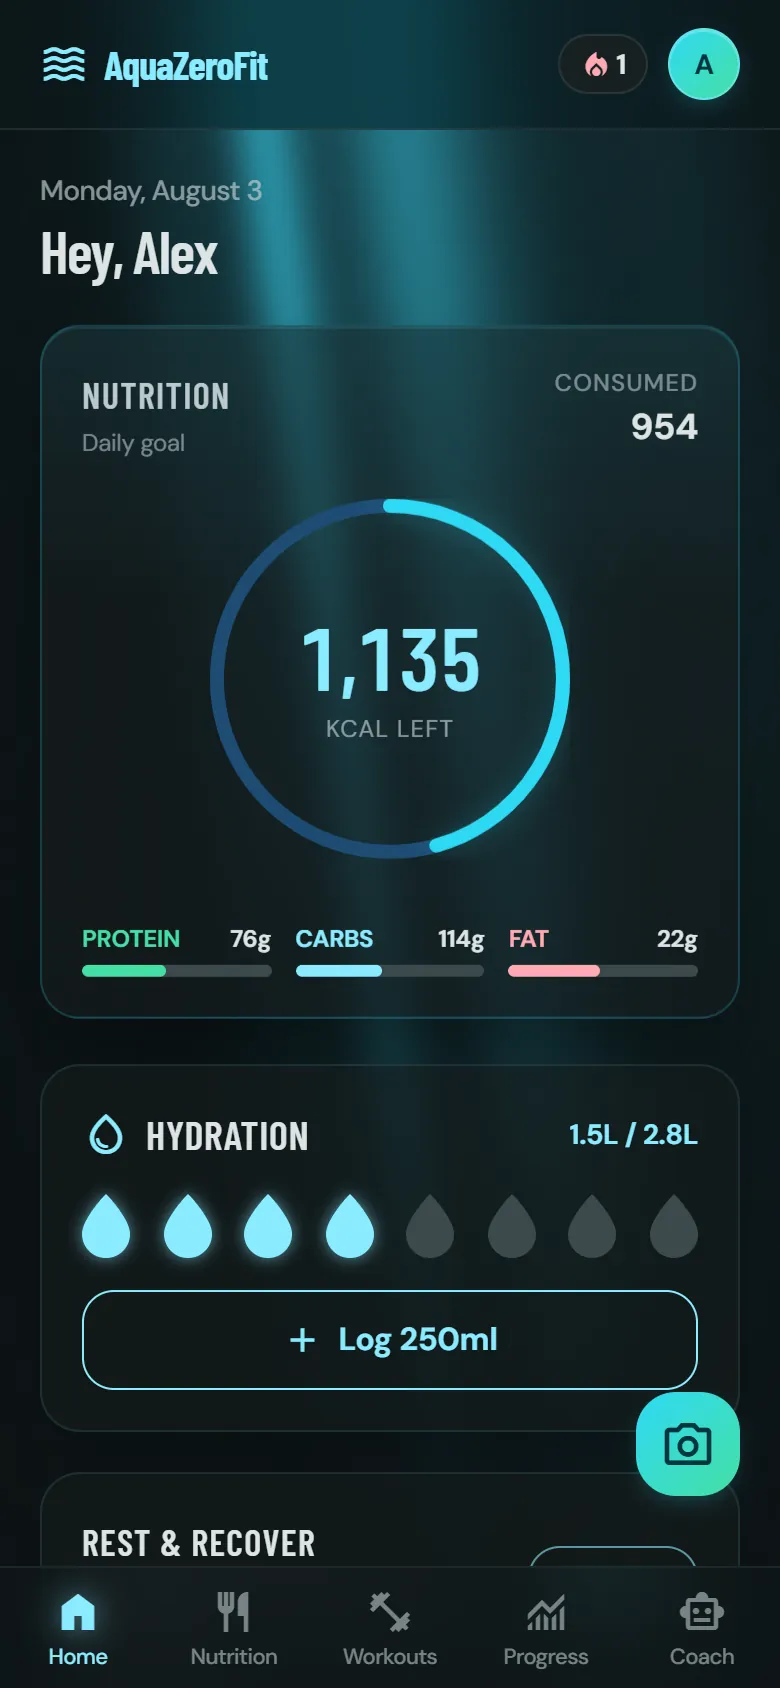
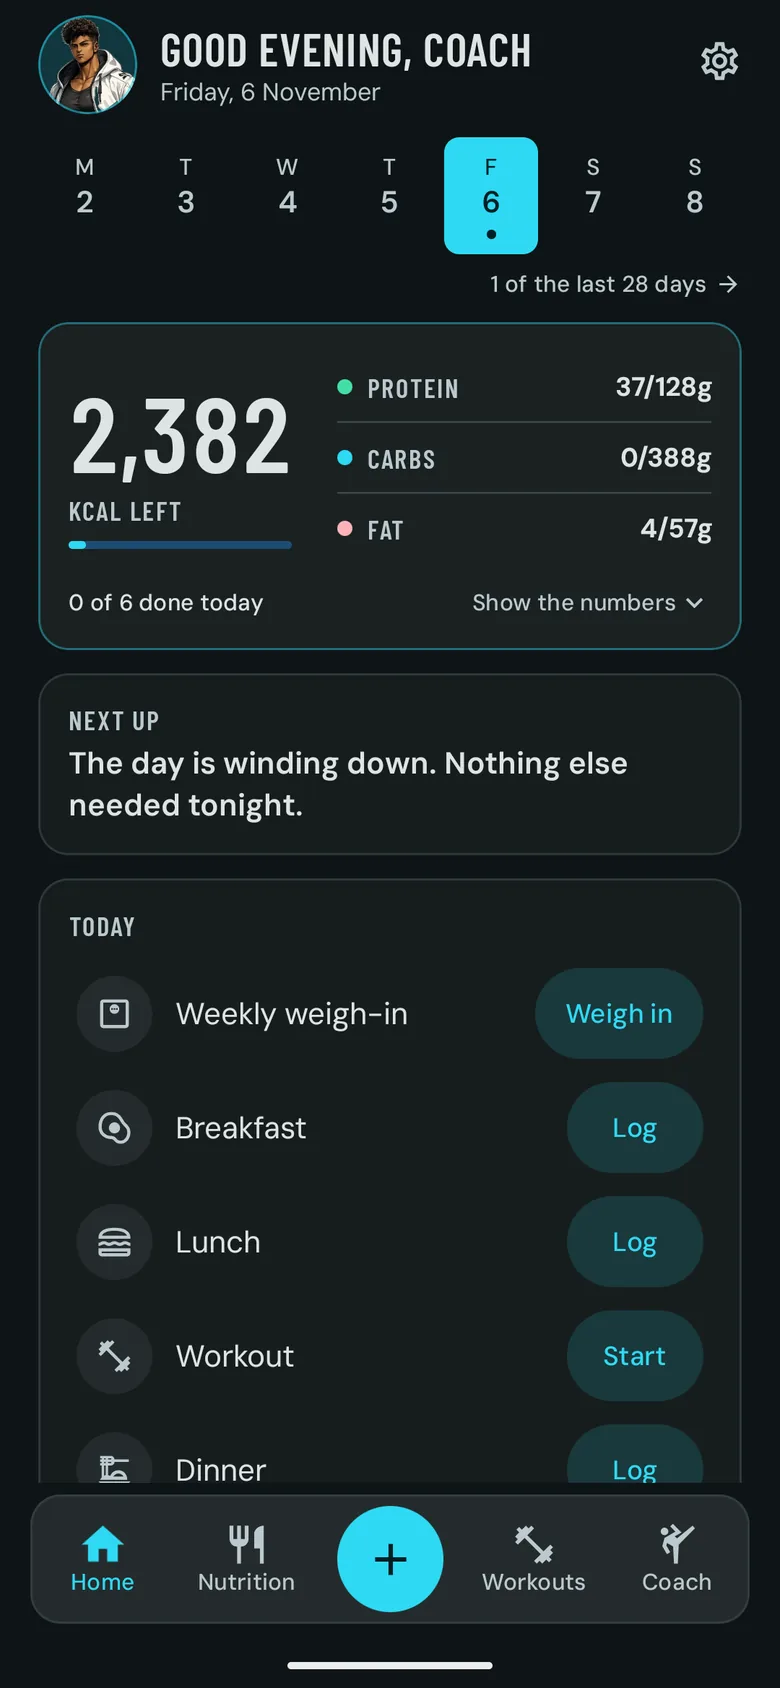
Show the redesigned Android app on the landing pages (#178)
The gallery and How it works showed August browser captures of the old
look: an aurora behind a calorie ring and gradient buttons, in a phone frame
with an aqua glow. They now show captures of the redesigned Android app (the
one on Google Play), with the status bar cropped off, alt text that describes
what is on each screen, and copy that says where they came from. The meal
plan capture is replaced by a recipe: the test account was out of AI credits,
and an empty plan is not worth showing. The device frame is a plain bezel.

Sub-page headlines wrapped wider in the fallback font while Barlow Condensed
loaded, which shifted /aqua-coach by 0.33 at 390px. A size-adjusted local
fallback face, measured from both fonts' advance widths, wraps where the
real face will; the render audit now reads 0.003.

diff --git a/apps/web/src/pages/landing/LandingSections.tsx b/apps/web/src/pages/landing/LandingSections.tsx
@@ -50,37 +50,37 @@ const SCREENS = [
     id: 'dashboard',
     title: 'Today at a glance',
     caption: 'Calories remaining, macro split and hydration, all computed from your own figures.',
-    alt: 'Dashboard: 1,135 kcal left on a progress ring, protein, carbs and fat against target, and hydration logged in 250 ml steps.',
+    alt: 'Today: 2,382 kcal left as the lead figure, protein, carbs and fat against target as ruled rows, and the day’s checklist of meals, workout and water.',
   },
   {
     id: 'nutrition',
     title: 'Per-meal logging',
     caption: 'A searchable food corpus, barcode scanning and day navigation, meal by meal.',
-    alt: 'Nutrition day view: a calorie ring, macro targets and each meal of the day listed with its entries.',
+    alt: 'Nutrition day view: 2,382 kcal remaining of a 2,580 goal, macros against target, quick actions to scan a meal or barcode, and each meal of the day.',
   },
   {
     id: 'coach',
     title: 'A coach that knows your day',
     caption: 'Grounded in what you have logged, with the wellness boundary always on screen.',
-    alt: "Aqua Coach: a reply quoting today's logged calories, protein, carbs, fat and water, above the persistent wellness disclaimer.",
+    alt: 'Coach chat with Akin: advice on easing into a recovery jog, under the persistent wellness disclaimer.',
   },
   {
-    id: 'meal-plan',
-    title: 'Plans matched to your targets',
-    caption: 'Generated against your calorie and macro targets, with allergens excluded first.',
-    alt: 'An AI meal plan laid out against the day’s calorie and macro targets.',
+    id: 'recipe',
+    title: 'Recipes you can log as cooked',
+    caption: 'Per-serving calories and macros, allergens called out, and the full method cached for offline reading.',
+    alt: 'Recipe: avocado and egg sourdough toast at 440 kcal per serving with protein, carbs and fat, an allergen note, a servings stepper and the ingredient list.',
   },
   {
     id: 'workouts',
     title: 'Training that fits your kit',
     caption: 'An openly licensed exercise corpus, filtered to the equipment you actually own.',
-    alt: 'Workout library: the training week, a rest-day card, and the exercise library filtered by type, muscle and equipment.',
+    alt: 'Workouts: today’s full-body strength session with its exercises and a start button, the training week, and the exercise library.',
   },
   {
     id: 'progress',
     title: 'Progress over 7, 30 and 90 days',
     caption: 'Weight journey and calorie trend, so a single heavy day reads as a single day.',
-    alt: 'Progress view: current weight, change since start, a weight journey chart against goal, and a calorie trend bar chart.',
+    alt: 'Progress: current weight 80.0 kg as the lead figure, change since start, and the 28-day consistency window.',
   },
 ];
 
@@ -113,8 +113,8 @@ export function Gallery() {
               Real screens from the running app.
             </h2>
             <p className={LEAD}>
-              Captured signed in as the seeded demo account. Every number on them came out of the
-              same code you would be using.
+              Captured from the Android app, signed in to a test account. Every number on them came
+              out of the same code you would be using.
             </p>
           </Reveal>
 

diff --git a/apps/web/src/pages/landing/PhoneShowcase.tsx b/apps/web/src/pages/landing/PhoneShowcase.tsx
@@ -3,8 +3,9 @@ import { fetchPriorityHigh } from '@/lib/fetchPriority';
 /**
  * Device frame for the real screen captures.
  *
- * The screen is a real capture of the running application (docs/screenshots,
- * re-encoded to WebP in public/screenshots) rather than markup imitating it.
+ * The screen is a real capture of the running application, re-encoded to WebP
+ * in public/screenshots, rather than markup imitating it. Most are Android
+ * captures with the OS status bar cropped off.
  * A hand-built replica drifts from the product the moment either changes —
  * ours already had, within an hour of being written — and a landing page whose
  * "screenshots" are drawings is exactly the tell we are trying to avoid.
@@ -27,12 +28,10 @@ export function DeviceFrame({
 }) {
   return (
     <div
-      className={`relative rounded-[42px] border border-white/10 bg-[#0b1113] p-2.5 shadow-[0_60px_120px_-40px_rgba(0,0,0,0.95),0_0_80px_-40px_rgba(47,217,244,0.5)] ${className}`}
+      // A plain bezel: the screen is the subject, so no glow or sheen competes
+      // with it (docs/design.md).
+      className={`relative rounded-[42px] border border-outline-variant/60 bg-surface-container-lowest p-2.5 ${className}`}
     >
-      <div
-        className="pointer-events-none absolute inset-0 rounded-[42px] bg-gradient-to-br from-white/12 via-transparent to-transparent"
-        aria-hidden="true"
-      />
       <div className="relative overflow-hidden rounded-[34px] bg-surface-container-lowest">
         <img
           src={`/screenshots/${id}.webp`}
@@ -48,8 +47,8 @@ export function DeviceFrame({
           decoding="async"
           className="block h-auto w-full"
         />
-        {/* No drawn notch: these are browser captures with no OS status bar, so
-            a fake one would land on top of the app's own header. */}
+        {/* No drawn notch: the captures carry no status bar, so a fake one
+            would land on top of the app's own header. */}
       </div>
     </div>
   );

diff --git a/apps/web/src/pages/landing/screenshots.test.ts b/apps/web/src/pages/landing/screenshots.test.ts
@@ -1,0 +1,41 @@
+/**
+ * The marketing pages show real captures of the app, served from
+ * public/screenshots at 1x and 2x. A renamed or deleted capture fails here
+ * instead of shipping a broken image to the landing page.
+ *
+ * The heading face also keeps its metric-matched fallback: without it the
+ * sub-page headlines wrapped wider while Barlow Condensed loaded and shifted
+ * the page when it arrived.
+ */
+import { existsSync, readFileSync } from 'node:fs';
+import { fileURLToPath } from 'node:url';
+import { describe, expect, it } from 'vitest';
+
+const here = (relative: string) => fileURLToPath(new URL(relative, import.meta.url));
+const source = (file: string) => readFileSync(here(file), 'utf8');
+
+const galleryIds = [...source('./LandingSections.tsx').matchAll(/^\s+id: '([a-z-]+)',$/gm)].map((m) => m[1]);
+const stepIds = [...source('./HowItWorks.tsx').matchAll(/screenshot: '([a-z-]+)'/g)].map((m) => m[1]);
+
+describe('landing screenshots', () => {
+  it('finds the six gallery captures and the how-it-works captures', () => {
+    expect(galleryIds).toHaveLength(6);
+    expect(stepIds.length).toBeGreaterThan(0);
+  });
+
+  it.each([...new Set([...galleryIds, ...stepIds])])('%s exists at 1x and 2x', (id) => {
+    expect(existsSync(here(`../../../public/screenshots/${id}.webp`))).toBe(true);
+    expect(existsSync(here(`../../../public/screenshots/${id}@2x.webp`))).toBe(true);
+  });
+});
+
+describe('heading font fallback', () => {
+  it('declares a size-adjusted stand-in and lists it before the generic family', () => {
+    expect(source('../../styles/index.css')).toMatch(
+      /font-family: 'Barlow Condensed Fallback';[\s\S]*?size-adjust: 74\.4%;/,
+    );
+    expect(source('../../../tailwind.config.js')).toContain(
+      `heading: ['"Barlow Condensed"', '"Barlow Condensed Fallback"', 'sans-serif']`,
+    );
+  });
+});

diff --git a/apps/web/src/styles/index.css b/apps/web/src/styles/index.css
@@ -2,6 +2,20 @@
 @tailwind components;
 @tailwind utilities;
 
+/* Metric-matched stand-in for Barlow Condensed while the web font loads.
+   The fonts load asynchronously, and a full-width fallback wrapped sub-page
+   headlines onto extra lines, then shifted the page when Barlow arrived
+   (CLS 0.33 on /aqua-coach at 390px). Headings are SemiBold, which falls back
+   to the bold face; Barlow Condensed SemiBold sets text at 0.744 of Arial
+   Bold's width (measured from both fonts' advance widths), so the stand-in
+   wraps where the real face will. */
+@font-face {
+  font-family: 'Barlow Condensed Fallback';
+  src: local('Arial Bold'), local('Arial-BoldMT'), local('Roboto Bold'), local('Roboto-Bold');
+  font-weight: 600 800;
+  size-adjust: 74.4%;
+}
+
 /* ====================================================================
    Design tokens - the single binding point for the palette.
 

diff --git a/apps/web/src/pages/landing/HowItWorks.tsx b/apps/web/src/pages/landing/HowItWorks.tsx
@@ -75,8 +75,8 @@ const STEPS: StepSpec[] = [
       'Runs a deterministic allergen filter after generation, tuned to reject anything it cannot prove safe rather than risk a miss.',
       'Leaves the arithmetic where it belongs: the totals you see are computed, not narrated.',
     ],
-    screenshot: 'meal-plan',
-    alt: 'A generated meal plan laid out against the day’s calorie and macro targets.',
+    screenshot: 'recipe',
+    alt: 'A recipe from the plan: per-serving calories and macros, an allergen note and a servings stepper.',
   },
   {
     id: 'train',

diff --git a/apps/web/tailwind.config.js b/apps/web/tailwind.config.js
@@ -72,7 +72,7 @@ export default {
         coral: 'rgb(var(--azf-coral) / <alpha-value>)',
       },
       fontFamily: {
-        heading: ['"Barlow Condensed"', 'sans-serif'],
+        heading: ['"Barlow Condensed"', '"Barlow Condensed Fallback"', 'sans-serif'],
         body: ['"DM Sans"', 'sans-serif'],
       },
       // Two radii, matching Android's AzfShapes (docs/design.md): 16px for
